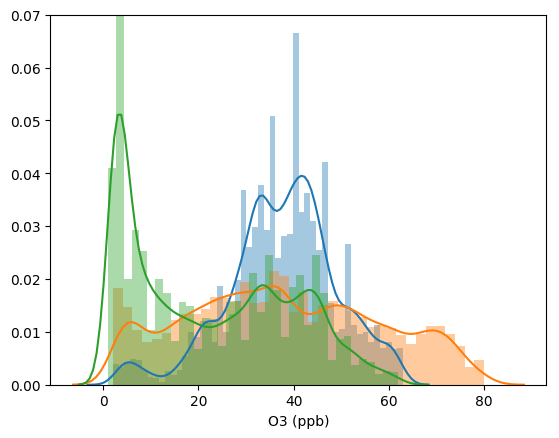
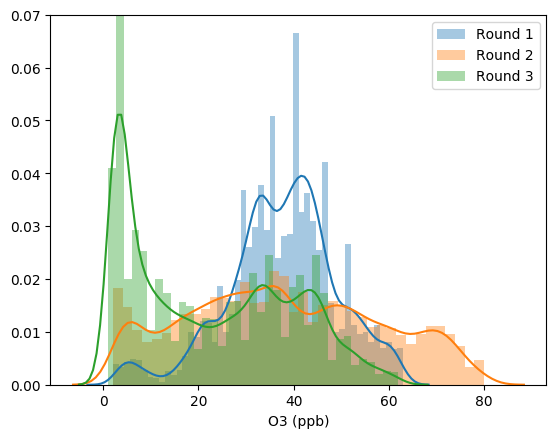
updated distribution plots

Changed region(s): [[0.7603, 0.0594, 0.9732, 0.2078]]

diff --git a/scripts/generate_distribution_plots.py b/scripts/generate_distribution_plots.py
@@ -64,9 +64,9 @@ LOCATION_O3 = {
 for location in LOCATION_PLOTS:
     LOCATION_PLOTS[location][1].set_title("%s - Temperature" % location)
 for location in LOCATION_NO2:
-    LOCATION_PLOTS[location][1].set_title("%s - Temperature" % location)
+    LOCATION_PLOTS[location][1].set_title("%s - NO2" % location)
 for location in LOCATION_O3:
-    LOCATION_PLOTS[location][1].set_title("%s - Temperature" % location)
+    LOCATION_PLOTS[location][1].set_title("%s - O3" % location)
 for location in HUMIDITY_PLOTS:
     HUMIDITY_PLOTS[location][1].set_title("%s - Humidity" % location)
 total_data = None
@@ -100,9 +100,9 @@ for location in LOCATION_PLOTS:
 for location in HUMIDITY_PLOTS:
     HUMIDITY_PLOTS[location][1].legend(loc='best')
 for location in LOCATION_NO2:
-    LOCATION_PLOTS[location][1].legend(loc='best')
+    LOCATION_NO2[location][1].legend(loc='best')
 for location in LOCATION_O3:
-    LOCATION_PLOTS[location][1].legend(loc='best')
+    LOCATION_O3[location][1].legend(loc='best')
 
 TEMPERATURE_PLOT = plt.subplots()
 sns.distplot(total_data['temperature'][total_data['Location'] == 'elcajon'], ax=TEMPERATURE_PLOT[1], label="El Cajon", axlabel='Temperature (F)', kde_kws=dict(bw='silverman'), norm_hist=False)
